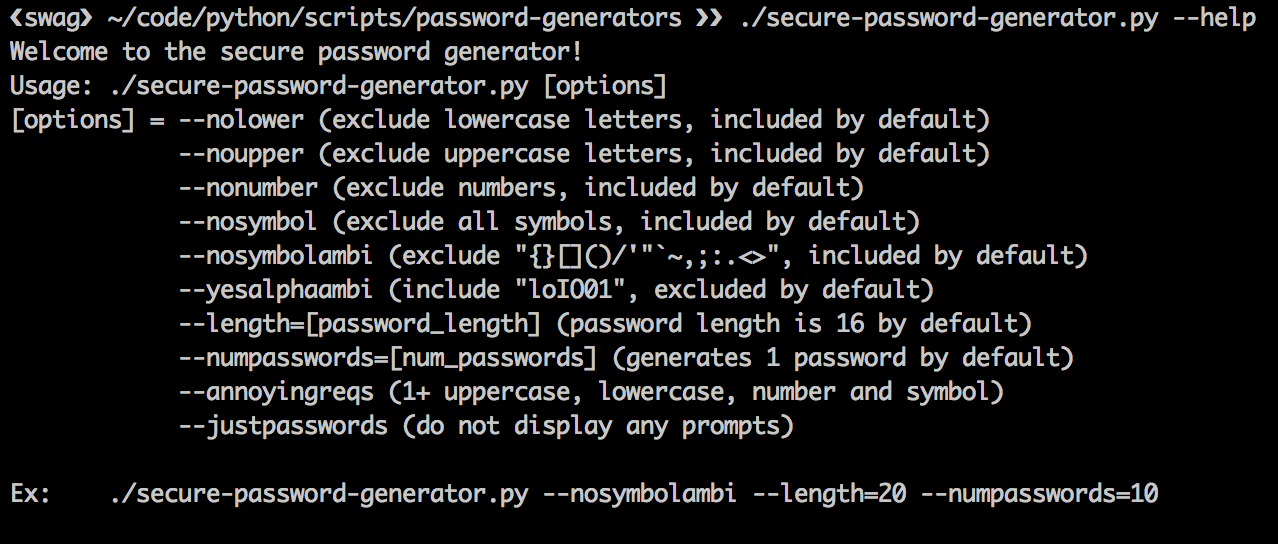
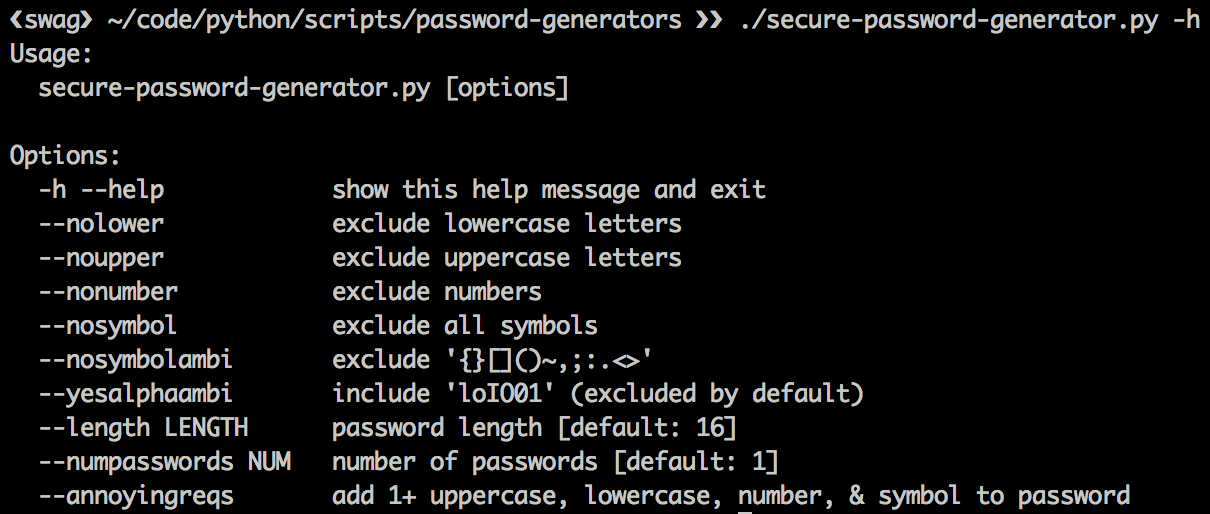
update README and tweak documentation

Changed region(s): [[0.0, 0.0, 1.0, 1.0]]

diff --git a/password-generators/secure-password-generator.py b/password-generators/secure-password-generator.py
@@ -4,35 +4,34 @@
   secure-password-generator.py [options]
 
 Options:
-  -h --help                show this help message and exit
-  --version                show version and exit
-  --nolower                Exclude lowercase letters, included by default
-  --noupper                Exclude uppercase letters, included by default
-  --nonumber               Exclude numbers, included by default
-  --nosymbol               Exclude all symbols, included by default
-  --nosymbolambi           Exclude "{}[]()/\`~,;:.<>", included by default
-  --yesalphaambi           Include "loIO01", excluded by default
-  --length LENGTH          Password length [default: 16]
-  --numpasswords NUM       Number of passwords [default: 1]
-  --annoyingreqs           1+ uppercase, lowercase, number and symbol
+  -h --help            show this help message and exit
+  --nolower            exclude lowercase letters
+  --noupper            exclude uppercase letters
+  --nonumber           exclude numbers
+  --nosymbol           exclude all symbols
+  --nosymbolambi       exclude '{}[]()~,;:.<>'
+  --yesalphaambi       include 'loIO01' (excluded by default)
+  --length LENGTH      password length [default: 16]
+  --numpasswords NUM   number of passwords [default: 1]
+  --annoyingreqs       add 1+ uppercase, lowercase, number, & symbol to password
 """
 import random
 from docopt import docopt
 
-arguments = docopt(__doc__, version='2.0')
+arguments = docopt(__doc__)
     
 lower = 'abcdefghijklmnopqrstuvwxyz'
 upper = 'ABCDEFGHIJKLMNOPQRSTUVWXYZ'
 number = '0123456789'
 loIO01 = 'loIO01'
 symbol = '!@#$%^&*_+?-='
-symbolAmbiguous = '{}[]()/\\~,;:.<>'
+ambiguous_symbols = '{}[]()~,;:.<>'
 
 def exclude(characters, alphabet):
     return "".join(list(set(alphabet) - set(characters)))
 
 def get_alphabet(arguments):
-    alphabet = ''.join([lower, upper, number, symbol, symbolAmbiguous])
+    alphabet = ''.join([lower, upper, number, symbol, ambiguous_symbols])
     if not arguments['--yesalphaambi']:
         alphabet = exclude(loIO01, alphabet)
     if arguments['--nolower']:
@@ -41,10 +40,10 @@ def get_alphabet(arguments):
         alphabet = exclude(upper, alphabet)
     if arguments['--nonumber']:
         alphabet = exclude(number, alphabet)
-    if arguments['--nosymbolambi'] and symbolAmbiguous in args:
-        alphabet = exclude(symbolAmbiguous, alphabet)
+    if arguments['--nosymbolambi']:
+        alphabet = exclude(ambiguous_symbols, alphabet)
     if arguments['--nosymbol']:
-        alphabet = exclude(symbolAmbiguous, alphabet)
+        alphabet = exclude(ambiguous_symbols, alphabet)
         alphabet = exclude(symbol, alphabet)
     return alphabet
 
@@ -67,7 +66,6 @@ def generate_passwords(arguments):
         print(password)
 
 def __main__():
-    args = [lower, upper, number, symbol, symbolAmbiguous]
     generate_passwords(arguments)
 
 __main__()

diff --git a/password-generators/README.md b/password-generators/README.md
@@ -2,13 +2,13 @@ Two password generators written in Python3.
 
 (1.) Secure Password Generator:
 
-This offline script attempts to replicate the functionality of the password generator at (http://passwordsgenerator.net/). I've always felt paranoid about using a website for password-generation, but I have used this website in the past when I needed a password. This script is for the paranoid. It eliminates the need to trust that a website is not storing your password:
+This offline script attempts to replicate the functionality of the password generator at (http://passwordsgenerator.net/). I use it to generate secure passwords locally, without having to trust any website or network!
 
-![alt text](https://raw.githubusercontent.com/jamesshapiro/python-scripts/master/assets/images/secure-password-welcome-prompt.png)
+![alt text](https://raw.githubusercontent.com/jamesshapiro/python-scripts/master/assets/images/secure-password-simple-use.png)
 
 ![alt text](https://raw.githubusercontent.com/jamesshapiro/python-scripts/master/assets/images/secure-password-use-case.png)
 
-You can exclude symbols, numbers, lowercase letters, and/or uppercase letters from your password using flags. Similar letters/numbers (i.e. "lI1oO0") are excluded by default but can be included with the "--yesalphaambi" flag. secure-password-generator.py also has some additional functionality (i.e. the ability to require one uppercase, one lowercase, one number, and one symbol, for annoying websites that require that):
+You can exclude symbols, numbers, lowercase letters, and/or uppercase letters from your passwords using flags. Similar letters/numbers (i.e. "lI1oO0") are excluded by default but can be included with the "--yesalphaambi" flag. secure-password-generator.py also has some additional functionality (i.e. the ability to require one uppercase, one lowercase, one number, and one symbol, for websites that require that):
 
 ![alt text](https://raw.githubusercontent.com/jamesshapiro/python-scripts/master/assets/images/secure-password-help.png)
 
